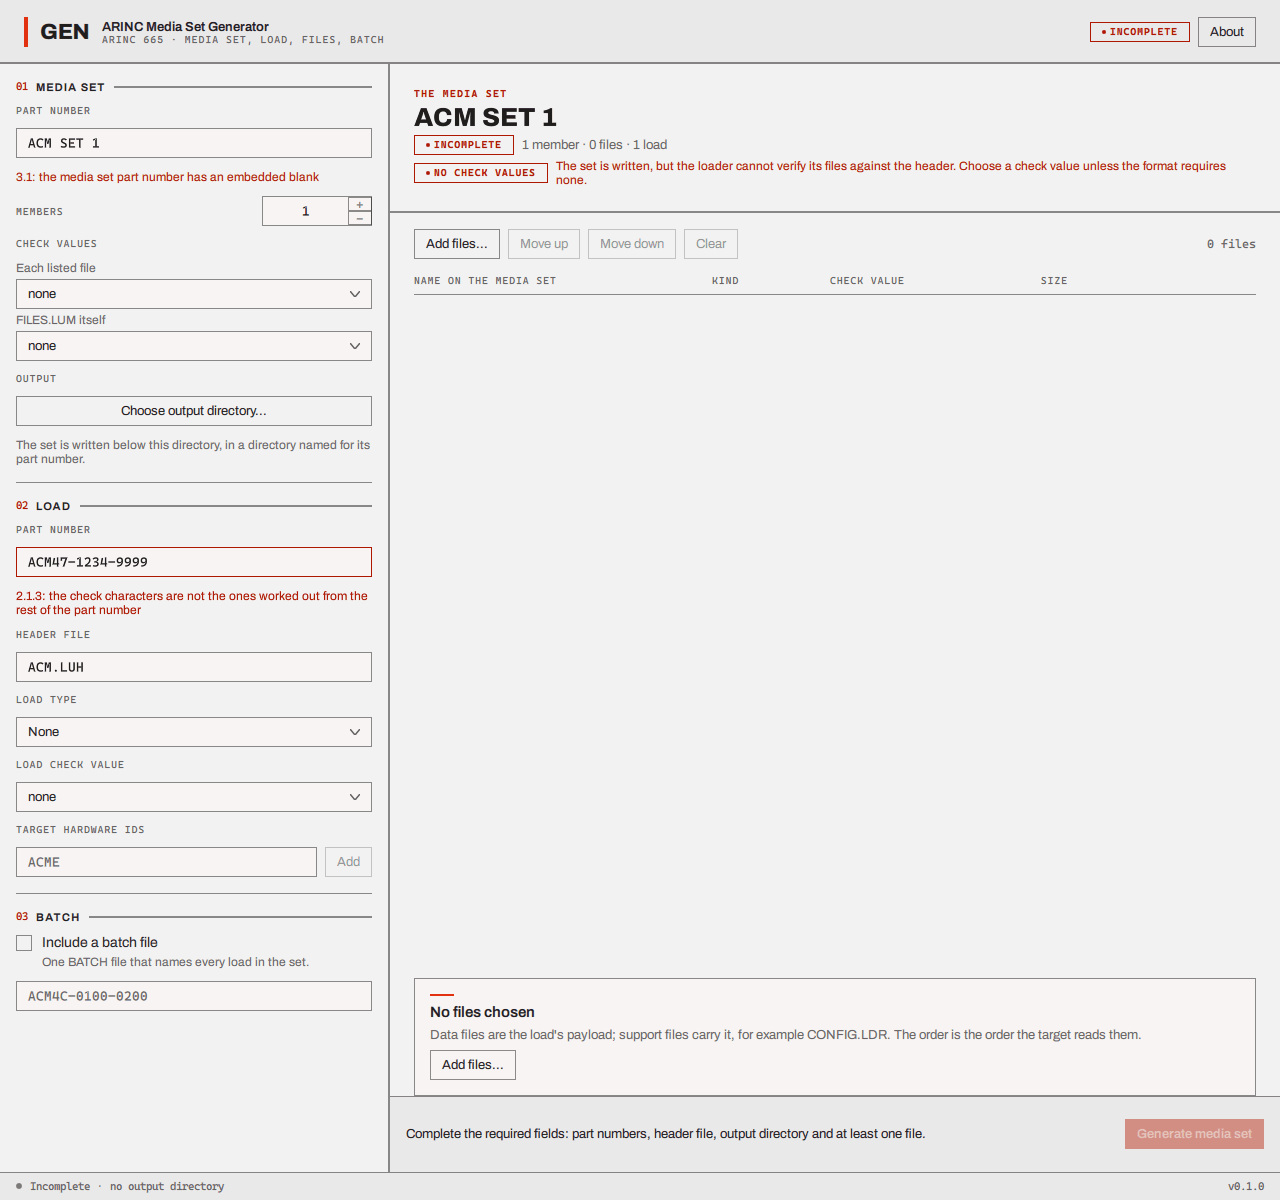
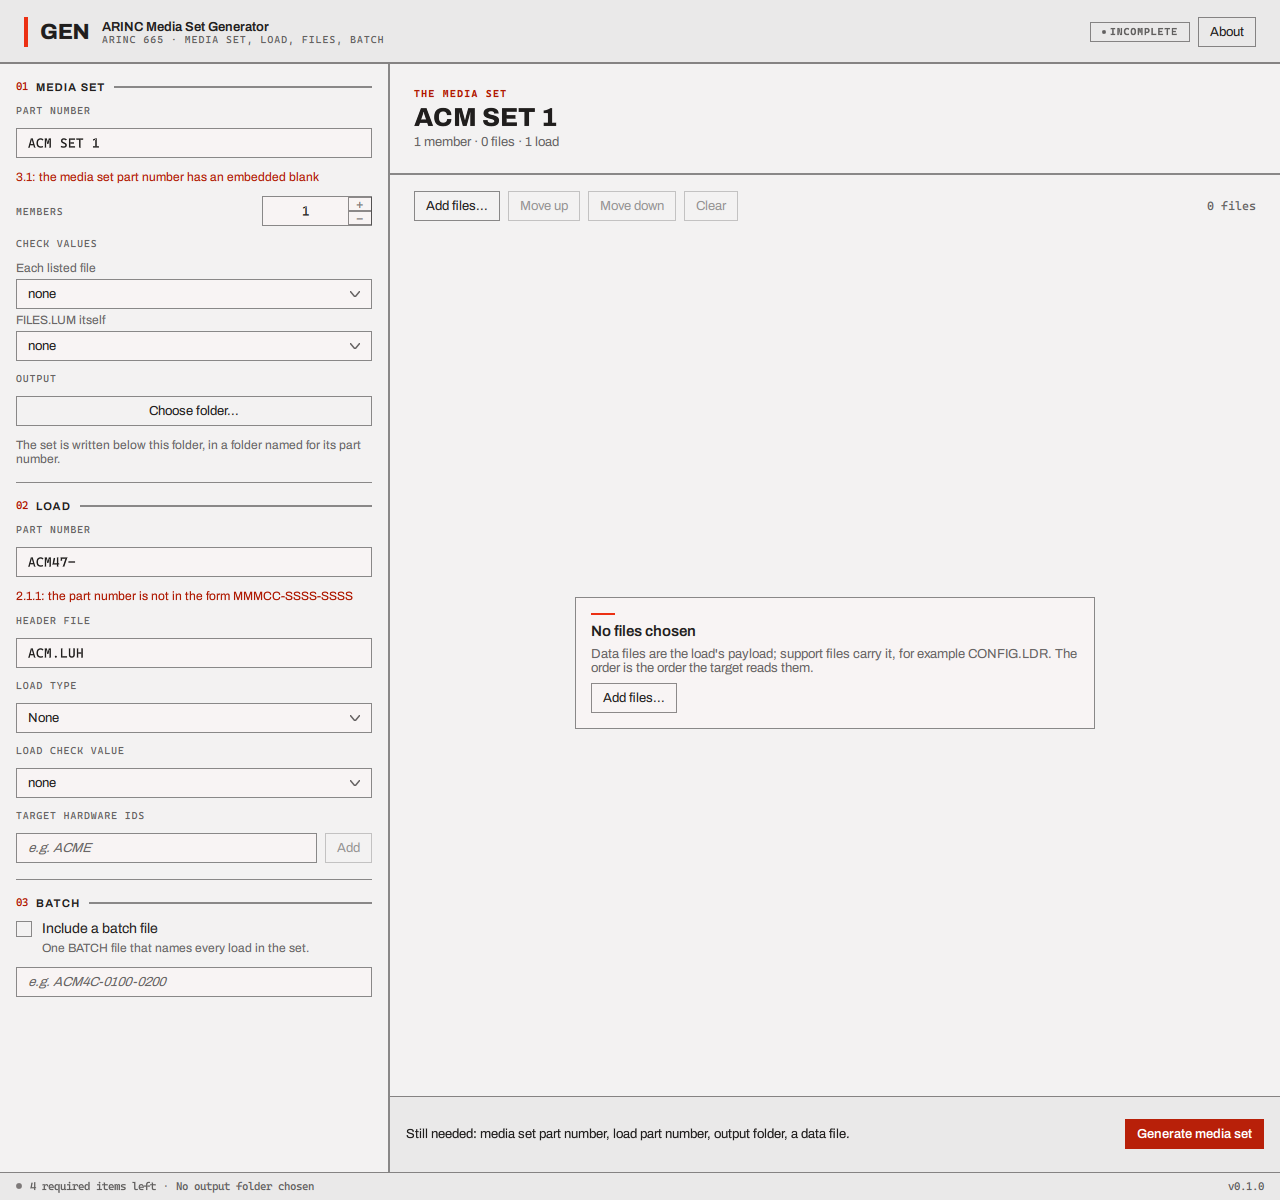
Retake the generator, mock target and first-run pictures; name the missing data file

diff --git a/src/media_gen/qml/GeneratorWindow.qml b/src/media_gen/qml/GeneratorWindow.qml
@@ -38,7 +38,7 @@ ApplicationWindow {
         if (app.outputDirectoryError.length > 0)
             list.push(qsTr("output folder"));
         if (app.filesError.length > 0)
-            list.push(qsTr("files"));
+            list.push(qsTr("a data file"));
         return list;
     }
     // Nothing has been entered yet: the window is waiting, not complaining.
